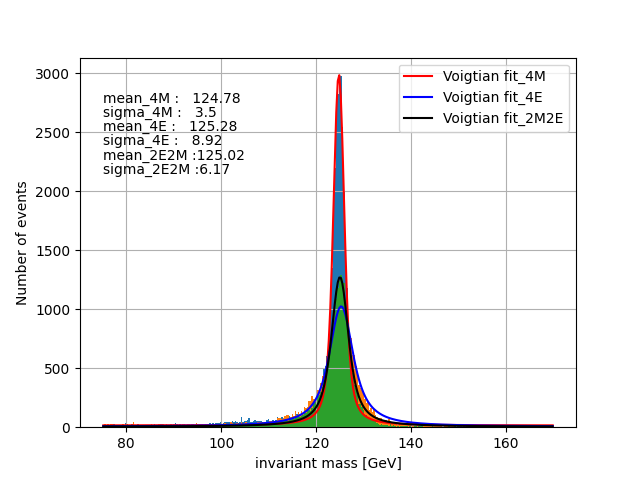
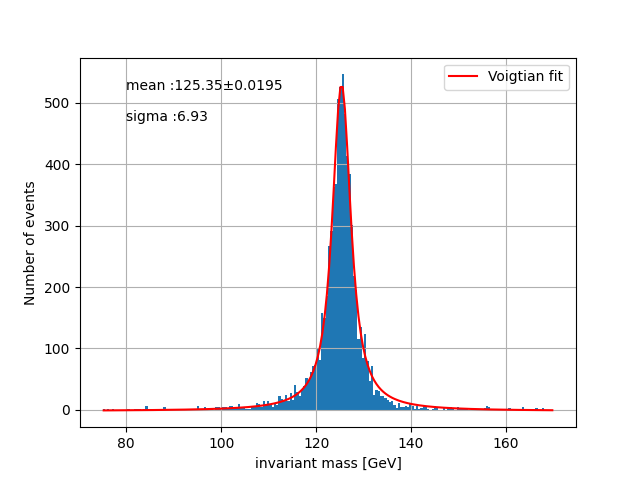
Higgs to four leptons hisogram with fitting

diff --git a/Higgs_to_4L_filter_histogram.py b/Higgs_to_4L_filter_histogram.py
@@ -6,6 +6,8 @@ import numpy as np
 import random
 from scipy.optimize import curve_fit
 from scipy.special import wofz
+import awkward as ak
+import math
 
 
 # file : https://opendata.cern.ch/record/12361
@@ -18,65 +20,68 @@ tree = file['Events']
 tree.keys()
 branches = tree.arrays()
 
+# pt_cut
+E_pt_cut = 15
+M_pt_cut = 24
+
+
 # fourmuons p4 : Higgs to four muons
 
-four_muons_mask = branches['nMuon'] == 4   # make a mask to filter four muons events
-
-
+four_muons_mask = (branches['nMuon'] == 4 )
 muon_p4 = vector.zip({'pt': branches['Muon_pt'], 'eta': branches['Muon_eta'], 'phi': branches['Muon_phi'], 'mass': branches['Muon_mass']})   # make muon_p4 vector with specific data branches (pt, eta, phi,mass)
+###
 
-four_muons_p4 = muon_p4[four_muons_mask]    # make new data applying 4-muons filter
 
-first_muon_p4 = four_muons_p4[:, 0]        # To sum fourvector of 4-leptons, devide it to first, second, third, fourth muons fourvectors
-second_muon_p4 = four_muons_p4[:, 1]
-third_muon_p4 = four_muons_p4[:, 2]
-fourth_muon_p4 = four_muons_p4[:, 3]
-
-sum_muons_p4 = first_muon_p4 + second_muon_p4 + third_muon_p4 +fourth_muon_p4    # sum fourvector of 4-muons
-
+four_muons_p4_0 = muon_p4[four_muons_mask]   # make new data applying 4-muons filter
 
 # muon charge cut_ 4 muons
 
+
 four_muons_charges = branches['Muon_charge'][four_muons_mask]    # data with charges of four muons
 
-opposite_sign_muons_1_mask = (four_muons_charges[:,0] != four_muons_charges[:,1]) & (four_muons_charges[:,2] != four_muons_charges[:,3])  # conditions : muon charge with diffrent sign
-    
-opposite_sign_muons_2_mask = (four_muons_charges[:,0] != four_muons_charges[:,2]) & (four_muons_charges[:,3] != four_muons_charges[:,1])
+opposite_sign_muons_1_mask = (four_muons_charges[:,0] != four_muons_charges[:,1]) & (four_muons_charges[:,2] != four_muons_charges[:,3]) # conditions : muon charge with diffrent sign
 
+opposite_sign_muons_2_mask = (four_muons_charges[:,0] != four_muons_charges[:,2]) & (four_muons_charges[:,3] != four_muons_charges[:,1])
 opposite_sign_muons_3_mask = (four_muons_charges[:,0] != four_muons_charges[:,3]) & (four_muons_charges[:,1] != four_muons_charges[:,2])
 
-fourmuons_1_p4 = sum_muons_p4[opposite_sign_muons_1_mask]     # make new data applying muons charge filter (+,-) or (-,+)
-fourmuons_2_p4 = sum_muons_p4[opposite_sign_muons_2_mask]
 
-fourmuons_3_p4 = sum_muons_p4[opposite_sign_muons_3_mask]
+fourmuons_1_p4 = four_muons_p4_0[opposite_sign_muons_1_mask]     # make new data applying muons charge filter (+,-) or (-,+)
+fourmuons_2_p4 = four_muons_p4_0[opposite_sign_muons_2_mask]
 
-fourmuons_p4 = np.concatenate((fourmuons_1_p4, fourmuons_2_p4, fourmuons_3_p4), axis=0)     # combine two data > charge 1 mask , charge 2 mask ,charge 3 mask
+fourmuons_3_p4 = four_muons_p4_0[opposite_sign_muons_3_mask]
 
+
+fourmuons_p4_1 = np.concatenate((fourmuons_1_p4, fourmuons_2_p4, fourmuons_3_p4), axis=0)     # combine two data > charge 1 mask , charge 2 mask ,charge 3 mask
+
+# select only events where all muons have 20 < pt
+mask1_4M_pt = ak.all(fourmuons_p4_1.pt > M_pt_cut, axis=1)
+
+four_muons_p4_2 = fourmuons_p4_1[mask1_4M_pt]
+
+mask2_4M_eta = ak.all( abs(four_muons_p4_2.eta) <3, axis=1)
+
+four_muons_p4 = four_muons_p4_2[mask2_4M_eta]
+
+
+first_muon_p4 = four_muons_p4[:,0]        # To sum fourvector of 4-leptons, devide it to first, second, third, fourth muons fourvectors
+second_muon_p4 = four_muons_p4[:,1]
+third_muon_p4 = four_muons_p4[:,2]
+fourth_muon_p4 = four_muons_p4[:,3]
+
+sum_muons_p4 = first_muon_p4 + second_muon_p4 + third_muon_p4 +fourth_muon_p4    # sum fourvector of 4-muons
 
 
 # fourelectorns : Higgs to four electrons
 
 four_electrons_mask = branches['nElectron'] == 4   # make a mask to filter four electrons events
-four_electrons_charges = branches['Electron_charge'][four_electrons_mask] # make a mask to filter Electorn charge (+, -)
 
-electron_p4 = vector.zip({'pt': branches['Electron_pt'], 'eta': branches['Electron_eta'], 'phi': branches['Electron_phi'], 'mass': branches['Electron_mass']})    # make electron_p4 vector with specific data branches (pt, eta, phi,mass)
+electrons_p4 = vector.zip({'pt': branches['Electron_pt'], 'eta': branches['Electron_eta'], 'phi': branches['Electron_phi'], 'mass': branches['Electron_mass']})    # make electron_p4 vector with specific data branches (pt, eta, phi,mass)
 
-
-four_electrons_p4 = electron_p4[four_electrons_mask]   # make new data applying 4-electrons filter
-
-
-first_electron_p4 = four_electrons_p4[:, 0]    # To sum fourvector of 4-leptons, devide it to first, second, third, fourth electrons fourvectors
-second_electron_p4 = four_electrons_p4[:, 1]
-third_electron_p4 = four_electrons_p4[:, 2]
-fourth_electron_p4 = four_electrons_p4[:, 3]
-
-
-sum_electrons_p4 = first_electron_p4 + second_electron_p4 + third_electron_p4 +fourth_electron_p4    # sum fourvector of 4-electrons
-
-
+four_electrons_p4_0 = electrons_p4[four_electrons_mask]
 
 # electron charge cut _ 4 electrons
 
+four_electrons_charges = branches['Electron_charge'][four_electrons_mask] # make a mask to filter Electorn charge (+, -)
 
 # conditions : muon charge with diffrent sign
 opposite_sign_electrons_1_mask = (four_electrons_charges[:,0] != four_electrons_charges[:,1]) & (four_electrons_charges[:,2] != four_electrons_charges[:,3])
@@ -85,13 +90,29 @@ opposite_sign_electrons_2_mask = (four_electrons_charges[:,0] != four_electrons_
 
 opposite_sign_electrons_3_mask = (four_electrons_charges[:,0] != four_electrons_charges[:,3]) & (four_electrons_charges[:,1] != four_electrons_charges[:,2])
 
-fourelectrons_1_p4 = sum_electrons_p4[opposite_sign_electrons_1_mask]    # make new data applying electrons charge filter (+,-) or (-,+)
-fourelectrons_2_p4 = sum_electrons_p4[opposite_sign_electrons_2_mask]
-fourelectrons_3_p4 = sum_electrons_p4[opposite_sign_electrons_3_mask]
+fourelectrons_1_p4 = four_electrons_p4_0[opposite_sign_electrons_1_mask]    # make new data applying electrons charge filter (+,-) or (-,+)
+fourelectrons_2_p4 = four_electrons_p4_0[opposite_sign_electrons_2_mask]
+fourelectrons_3_p4 = four_electrons_p4_0[opposite_sign_electrons_3_mask]
         
 
-fourelectrons_p4 = np.concatenate((fourelectrons_1_p4, fourelectrons_2_p4, fourelectrons_3_p4), axis=0)   # combine two data > charge 1 mask , charge 2 mask
+four_electrons_p4_1 = np.concatenate((fourelectrons_1_p4, fourelectrons_2_p4, fourelectrons_3_p4), axis=0)   # combine two data > charge 1 mask , charge 2 mask
 
+mask1_4E_pt = ak.all(four_electrons_p4_1.pt > E_pt_cut, axis=1)
+
+four_electrons_p4_2 = four_electrons_p4_1[mask1_4E_pt]
+
+mask2_4E_eta = ak.all( abs(four_electrons_p4_2.eta) <3, axis=1)
+
+four_electrons_p4 = four_electrons_p4_2[mask2_4E_eta]
+
+
+first_electron_p4 = four_electrons_p4[:, 0]    # To sum fourvector of 4-leptons, devide it to first, second, third, fourth electrons fourvectors
+second_electron_p4 = four_electrons_p4[:, 1]
+third_electron_p4 = four_electrons_p4[:, 2]
+fourth_electron_p4 = four_electrons_p4[:, 3]
+
+
+sum_electrons_p4 = first_electron_p4 + second_electron_p4 + third_electron_p4 +fourth_electron_p4
 
 
 
@@ -99,8 +120,6 @@ fourelectrons_p4 = np.concatenate((fourelectrons_1_p4, fourelectrons_2_p4, foure
 
 twoEtwoM_mask = ( branches['nMuon'] == 2) & (branches['nElectron'] == 2)   # make a mask to filter two electrons and two electorns events
  # twoE_mask = ( branches['nElectron'] == 2 )
-two_electrons_charges = branches['Electron_charge'][twoEtwoM_mask]
-two_muons_charges = branches['Muon_charge'][twoEtwoM_mask]
 
 # make muon_p4 vector with specific data branches (pt, eta, phi,mass)
 
@@ -116,16 +135,30 @@ twoM_p4 = lep1_p4[twoEtwoM_mask]     # make data applying 2-muons filter
 twoE_p4 = lep2_p4[twoEtwoM_mask]     # make data applying 2-electrons filter
 
 
- # charge cut _ 2 electrons and 2 muons
- 
 two_electrons_charges = branches['Electron_charge'][twoEtwoM_mask]
 two_muons_charges = branches['Muon_charge'][twoEtwoM_mask]
 
 twoEtwoM_step2_charge = (two_electrons_charges[:,0] != two_electrons_charges[:,1]) & (two_muons_charges[:,0] != two_muons_charges[:,1])
 
-twoelectrons_p4 = twoE_p4[twoEtwoM_step2_charge]
-twomuons_p4 = twoM_p4[twoEtwoM_step2_charge]
+twoelectrons_p4_0 = twoE_p4[twoEtwoM_step2_charge]
+twomuons_p4_0 = twoM_p4[twoEtwoM_step2_charge]
 
+
+mask1_2E_pt = ak.all(twoelectrons_p4_0.pt > E_pt_cut, axis=1)
+mask1_2M_pt = ak.all(twomuons_p4_0.pt > M_pt_cut, axis=1)
+
+two_muons_p4_1 = twoelectrons_p4_0[mask1_2M_pt & mask1_2E_pt]
+two_electrons_p4_1 = twomuons_p4_0[mask1_2M_pt & mask1_2E_pt]
+
+mask2_2E_eta = ak.all( abs(two_electrons_p4_1.eta) <3, axis=1)
+mask2_2M_eta = ak.all( abs(two_muons_p4_1.eta) <3, axis=1)
+
+
+twomuons_p4 = two_muons_p4_1[mask2_2M_eta & mask2_2E_eta]
+twoelectrons_p4 = two_electrons_p4_1[mask2_2E_eta & mask2_2M_eta]
+
+ # charge cut _ 2 electrons and 2 muons
+ 
 
 
 firstM_p4 = twomuons_p4[:, 0]
@@ -133,20 +166,18 @@ secondM_p4 = twomuons_p4[:, 1]
 firstE_p4 = twoelectrons_p4[:, 0]
 secondE_p4 = twoelectrons_p4[:, 1]
         
-sum_2electrons_p4 = firstE_p4 + secondE_p4
+sum_2electrons_p4 = firstE_p4 + secondE_p4    ## >>>> 둘다 20 이내의 mass 인데 합치면
+
 sum_2muons_p4 = firstM_p4 + secondM_p4
 
 #sum_2E_p4 = sum_2electrons_p4[0:28511]      # To sum 2 data, set size of data equally
-#sum_2M_p4 = sum_2muons_p4[0:28511]
 
 
-sum_2E2M_p4 = sum_2electrons_p4 + sum_2muons_p4
-# sum_2electrons_p4 + sum_2muons_p4        # sum fourvector of 2-electrons, 2-muons
+sum_2E2M_p4 = sum_2electrons_p4 + sum_2muons_p4        # sum fourvector of 2-electrons, 2-muons
 
 # combine all data (twoMuons twoElectrons, fourElectrons, fourMuons)
 
-sum_all_p4 = np.concatenate((sum_2E2M_p4,fourmuons_p4,fourelectrons_p4), axis =0)
-
+sum_all_p4 = np.concatenate((sum_2E2M_p4,sum_muons_p4,sum_electrons_p4), axis =0)
 
 
 # Gaussian fitting
@@ -157,7 +188,7 @@ def gaussian(x, amp, cen, wid):
     return amp * np.exp(-(x - cen) ** 2 / wid)
 
 # make histogram with Higgs mass
-mass_histogram1 = plt.hist(sum_all_p4.mass, bins=300, range=(75,170))
+mass_histogram1 = plt.hist(sum_all_p4.mass, bins=200, range=(75,170))
 
 def Voigt(x, x0, y0, a, sigma, gamma):
     #sigma = alpha / np.sqrt(2 * np.log(2))
@@ -172,12 +203,15 @@ for i in range(len(mass_histogram1[1])-1):
     mass = mass_histogram1[1]
     hist1_x.append((mass[i] + mass[i+1]) /2.)
     
-hist_xx=np.linspace(np.min(hist1_x),np.max(hist1_x),300)
+hist_xx=np.linspace(np.min(hist1_x),np.max(hist1_x),200)
 
 popt1, pcov1 = curve_fit(Voigt, hist1_x, hist1_N,p0=[125, np.max(hist1_N), -(np.max(hist1_N)-np.min(hist1_N)), 2.4,2.4] ,maxfev=5000)
 mean_f1 = popt1[0]
 sigma_f1 = popt1[3]
 gamma_f1 = popt1[4]
+
+covariance_mean_1 = pcov1[0,0]
+
 
 fv1 = 0.5346 * 2* 2*gamma_f1 + (0.2166*4*gamma_f1**2 + 4*sigma_f1**2*2*np.log(2))**(1/2)
 
@@ -185,8 +219,8 @@ fv1 = 0.5346 * 2* 2*gamma_f1 + (0.2166*4*gamma_f1**2 + 4*sigma_f1**2*2*np.log(2)
 plt.plot(hist_xx, Voigt(hist1_x,*popt1), 'r-', label='Voigtian fit')
 plt.grid()   # grid on
 plt.legend()
-plt.text(149, 4750,'mean :'+ str(round(mean_f1,2)) )        # describe mean on plot
-plt.text(149, 4550,'sigma :'+ str(round(fv1,2)) )      # describe sigma on plot
+plt.text(80, 520,'mean :'+ str(round(mean_f1,2)) +'±' +str(round(math.sqrt(covariance_mean_1),4)) )        # describe mean on plot
+plt.text(80, 470,'sigma :'+ str(round(fv1,2)) )      # describe sigma on plot
 plt.xlabel('invariant mass [GeV]')
 plt.ylabel('Number of events')
 plt.show
@@ -197,7 +231,7 @@ plt.clf()
 # 4_muons
 
 
-mass_histogram2 = plt.hist(fourmuons_p4.mass, bins=300, range=(75,170))
+mass_histogram2 = plt.hist(sum_muons_p4.mass, bins=200, range=(75,170))
 hist2_N = mass_histogram2[0]
 hist2_x = []
 for i in range(len(mass_histogram2[1])-1):
@@ -206,17 +240,20 @@ for i in range(len(mass_histogram2[1])-1):
     
 popt2, pcov2 = curve_fit(Voigt, hist2_x, hist2_N,p0=[125, np.max(hist2_N), -(np.max(hist2_N)-np.min(hist2_N)), 2.4,2.4] ,maxfev=5000)
 
+
 mean_f2 = popt2[0]
 sigma_f2 = popt2[3]
 gamma_f2 = popt2[4]
+
+covariance_mean_2 = pcov2[0,0]
 
 fv2 = 0.5346 * 2* 2*gamma_f2 + (0.2166*4*gamma_f2**2 + 4*sigma_f2**2*2*np.log(2))**(1/2)
 
 plt.plot(hist_xx, Voigt(hist2_x,*popt2), 'r-', label='Voigtian fit_4M')
 plt.grid()   # grid on
 plt.legend()
-plt.text(75, 2750,'mean_4M :   '+ str(round(mean_f2,2)) )        # describe mean on plot
-plt.text(75, 2630,'sigma_4M :   '+ str(round(fv2,2)) )      # describe sigma on plot
+plt.text(75, 325,'mean_4M :   '+ str(round(mean_f2,2)) +'±' +str(round(math.sqrt(covariance_mean_2),4)) )        # describe mean on plot
+plt.text(75,310,'sigma_4M :   '+ str(round(fv2,2)) )      # describe sigma on plot
 plt.xlabel('invariant mass [GeV]')
 plt.ylabel('Number of events')
 
@@ -226,7 +263,7 @@ plt.ylabel('Number of events')
 # 4_electrons
 
 
-mass_histogram3 = plt.hist(fourelectrons_p4.mass, bins=300, range=(75,170))
+mass_histogram3 = plt.hist(sum_electrons_p4.mass, bins=200, range=(75,170))
 hist3_N = mass_histogram3[0]
 hist3_x = []
 for i in range(len(mass_histogram3[1])-1):
@@ -239,13 +276,15 @@ mean_f3 = popt3[0]
 sigma_f3 = popt3[3]
 gamma_f3 = popt3[4]
 
+covariance_mean_3 = pcov3[0,0]
+
 fv3 = 0.5346 * 2* 2*gamma_f3 + (0.2166*4*gamma_f3**2 + 4*sigma_f3**2*2*np.log(2))**(1/2)
 
 plt.plot(hist_xx, Voigt(hist3_x,*popt3), 'b-', label='Voigtian fit_4E')
 plt.grid()   # grid on
 plt.legend()
-plt.text(75, 2510,'mean_4E :   '+ str(round(mean_f3,2)) )        # describe mean on plot
-plt.text(75,2390 ,'sigma_4E :   '+ str(round(fv3,2)) )      # describe sigma on plot
+plt.text(75, 295,'mean_4E :   '+ str(round(mean_f3,2)) +'±' +str(round(math.sqrt(covariance_mean_3),4)) )        # describe mean on plot
+plt.text(75,280 ,'sigma_4E :   '+ str(round(fv3,2)) )      # describe sigma on plot
 plt.xlabel('invariant mass [GeV]')
 plt.ylabel('Number of events')
 
@@ -255,7 +294,7 @@ plt.ylabel('Number of events')
 
 # 2_electrons and 2_muons
 
-mass_histogram4 = plt.hist(sum_2E2M_p4.mass, bins=300, range=(75,170))
+mass_histogram4 = plt.hist(sum_2E2M_p4.mass, bins=200, range=(75,170))
 hist4_N = mass_histogram4[0]
 hist4_x = []
 for i in range(len(mass_histogram4[1])-1):
@@ -268,42 +307,20 @@ mean_f4 = popt4[0]
 sigma_f4 = popt4[3]
 gamma_f4 = popt4[4]
 
+covariance_mean_4 = pcov4[0,0]
+
 fv4 = 0.5346 * 2* 2*gamma_f4 + (0.2166*4*gamma_f4**2 + 4*sigma_f4**2*2*np.log(2))**(1/2)
 
 plt.plot(hist_xx, Voigt(hist4_x,*popt4), 'k-', label='Voigtian fit_2M2E')
 plt.grid()   # grid on
 plt.legend()
-plt.text(75, 2270,'mean_2E2M :'+ str(round(mean_f4,2)) )        # describe mean on plot
-plt.text(75, 2150,'sigma_2E2M :'+ str(round(fv4,2)) )      # describe sigma on plot
+plt.text(75, 265,'mean_2E2M :'+ str(round(mean_f4,2)) +'±' +str(round(math.sqrt(covariance_mean_4),4)) )        # describe mean on plot
+plt.text(75, 250,'sigma_2E2M :'+ str(round(fv4,2)) )      # describe sigma on plot
 plt.xlabel('invariant mass [GeV]')
 plt.ylabel('Number of events')
 
 
-#plt.savefig('./plot_voigtian_fitting_2M2E.png')   # save plot/
-
-plt.savefig('./plot_voigtian_fitting_All_test.png')
-# Gaussian fit
-
-
-
-# voigtian function
-
-
-
-
-# popt[0]= mean popt[4] = sigma  , popt[5] = gamma
-# fv = 0.5346 * 2* 2 gamma + sqrt(0.2166*4*gamma^2 + 4*sigma^2*2*np.log(2))
-
-
-
-
-
-
-# plotting
-
-#plt.hist(sum_all_p4.mass, bins=200, range=(75,170), label = 'Higgs Data')    # make histogram with mass
-
-
+plt.savefig('./plot_voigtian_fitting_final.png')   # save plot/
 
 
 
